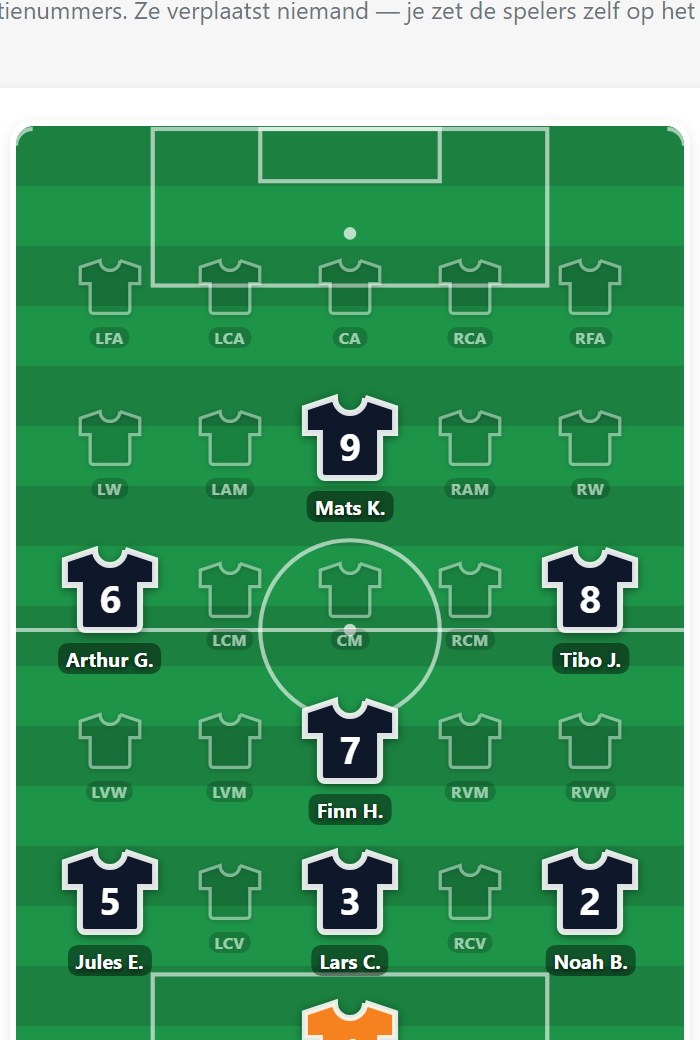
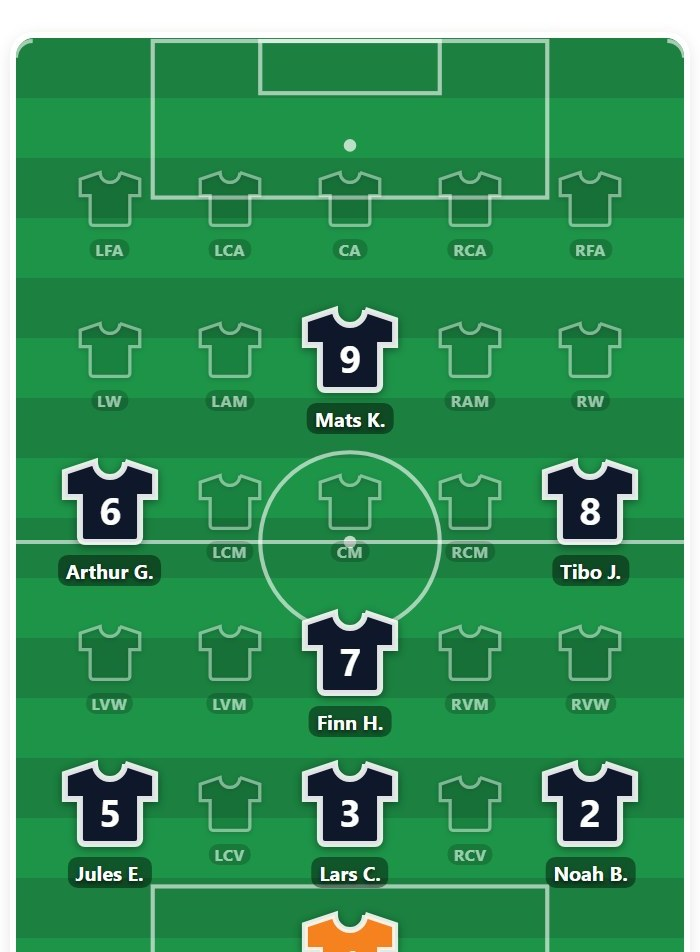
site: het afgekapte tekstregeltje boven het veldbeeld van stap 3 weggeknipt
Bovenaan img/s-veld.jpg hing nog de staart van de uitleg boven het veld
("...tienummers. Ze verplaatst niemand -- je zet de spelers zelf op het"),
plus de grijze rest van dat tekstkader. Een halve regel leest als een fout.

- 88 pixels van de bovenrand af: 700x1040 -> 700x952. Bijgeknipt op een
  veelvoud van 8 met de oorspronkelijke JPEG-tabellen, dus de rest van het
  beeld verliest niets.
- de hoogte in de <img> mee aangepast, anders springt de bladschikking bij
  het laden.
- dezelfde correctie in snij-uit.py van het website-harnas (uitsnede voor
  "veld" van boven 740 naar 828), anders zet een volgende regeneratie van
  de beelden die regel gewoon terug.

diff --git a/index.html b/index.html
@@ -572,7 +572,7 @@
           <a class="dl" href="voorbeeld/voorbeeld-wedstrijdplan.pdf" target="_blank" rel="noopener">Bekijk een voorbeeldwedstrijdplan (PDF)</a>
         </div>
         <div class="beeld">
-          <img src="img/s-veld.jpg" width="700" height="1040" loading="lazy"
+          <img src="img/s-veld.jpg" width="700" height="952" loading="lazy"
                alt="Het veld met de shirts van de spelers op hun positie, met rugnummer en naam">
         </div>
       </div>
